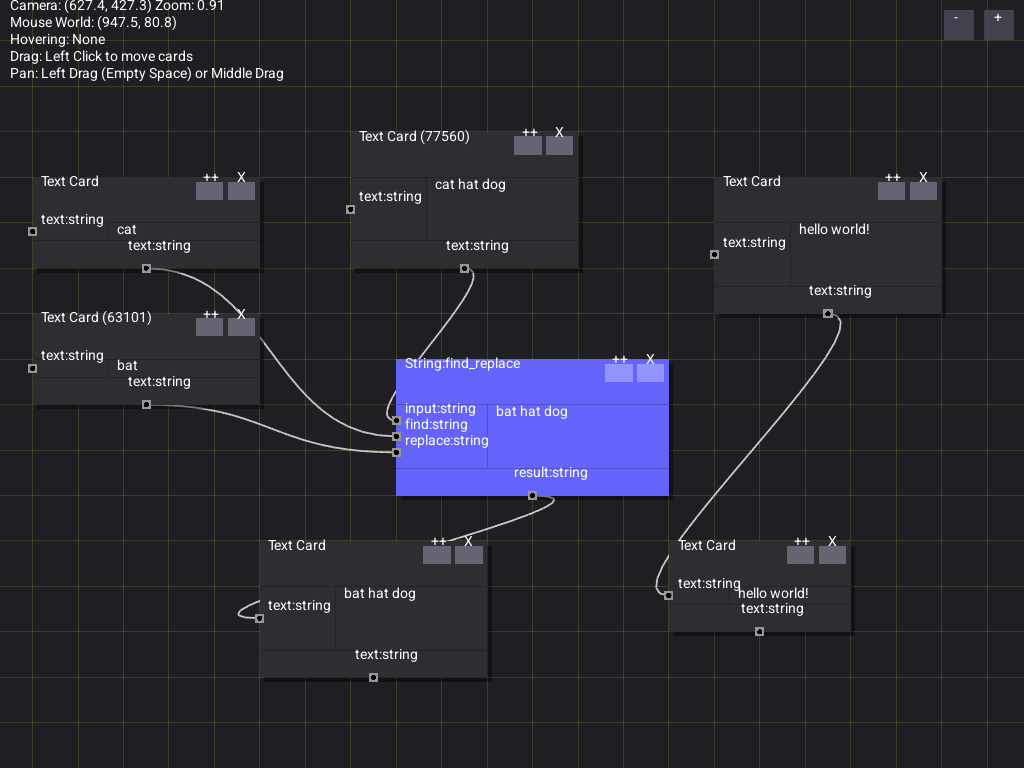
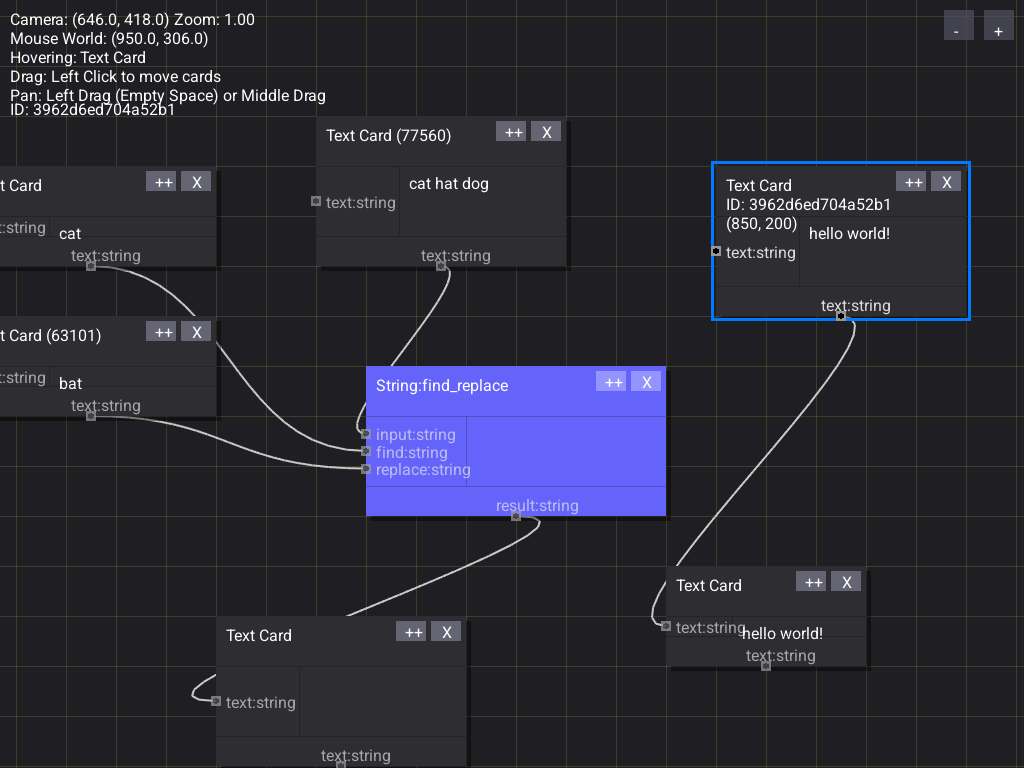
feat: Enhance card drawing with hover and selection effects, update font size and line height

diff --git a/card.go b/card.go
@@ -289,6 +289,12 @@ func (c *Card) drawPorts(screen *ebiten.Image, g *Game, sx, sy, sw, sh, headerHe
 	zoom := g.camera.Zoom
 	portSize := PortSize * zoom
 
+	// Determine if this card is hovered or selected
+	mx, my := ebiten.CursorPosition()
+	wx, wy := g.camera.ScreenToWorld(float64(mx), float64(my), cw, ch)
+	hovered := wx >= c.X && wx < c.X+c.Width && wy >= c.Y && wy < c.Y+c.Height
+	selected := (c == g.input.activeCard)
+
 	// Inputs (Left) - positioned on left edge
 	if len(c.Inputs) > 0 {
 		usableHeight := c.Height - headerHeight - footerHeight
@@ -300,6 +306,14 @@ func (c *Card) drawPorts(screen *ebiten.Image, g *Game, sx, sy, sw, sh, headerHe
 			// Determine port color
 			portColor := ColorPortBody
 			dotColor := ColorPortDot
+
+			// Reduce contrast for inactive/unhovered cards
+			if !selected && !hovered {
+				portColor = ColorPortBodyDim
+				dotColor = ColorPortDotDim
+			}
+
+			// Hovering a specific port overrides dimming
 			if g.input.hoveredPortCard == c && g.input.hoveredPortInfo != nil &&
 				g.input.hoveredPortInfo.IsInput && g.input.hoveredPortInfo.Name == port.Name {
 				portColor = ColorPortHover
@@ -315,7 +329,15 @@ func (c *Card) drawPorts(screen *ebiten.Image, g *Game, sx, sy, sw, sh, headerHe
 			}
 
 			label := fmt.Sprintf("%s:%s", port.Name, port.Type)
-			DrawTextLines(screen, g.FontFace, label, int(spx+portSize), int(spy-8*zoom), color.White)
+			// Choose label color: bright when hovered/selected/active, dim otherwise
+			labelColor := ColorPortLabelDim
+			if selected || hovered {
+				labelColor = ColorPortLabel
+			}
+			if portColor == ColorPortHover || portColor == ColorPortActive {
+				labelColor = color.RGBA{255, 255, 255, 255}
+			}
+			DrawTextLines(screen, g.FontFace, label, int(spx+portSize), int(spy-8*zoom), labelColor)
 		}
 	}
 
@@ -329,6 +351,13 @@ func (c *Card) drawPorts(screen *ebiten.Image, g *Game, sx, sy, sw, sh, headerHe
 			// Determine port color
 			portColor := ColorPortBody
 			dotColor := ColorPortDot
+
+			// Reduce contrast for inactive/unhovered cards
+			if !selected && !hovered {
+				portColor = ColorPortBodyDim
+				dotColor = ColorPortDotDim
+			}
+
 			if g.input.dragStartCard == c && g.input.dragStartPort == port.Name {
 				portColor = ColorPortActive
 				dotColor = ColorPortActive
@@ -343,7 +372,14 @@ func (c *Card) drawPorts(screen *ebiten.Image, g *Game, sx, sy, sw, sh, headerHe
 			}
 
 			label := fmt.Sprintf("%s:%s", port.Name, port.Type)
-			DrawTextLines(screen, g.FontFace, label, int(spx-20*zoom), int(spy-20*zoom), color.White)
+			labelColor := ColorPortLabelDim
+			if selected || hovered {
+				labelColor = ColorPortLabel
+			}
+			if portColor == ColorPortActive {
+				labelColor = color.RGBA{255, 255, 255, 255}
+			}
+			DrawTextLines(screen, g.FontFace, label, int(spx-20*zoom), int(spy-20*zoom), labelColor)
 		}
 	}
 }

diff --git a/config.go b/config.go
@@ -53,17 +53,22 @@ const (
 
 var (
 	// --- Colors ---
-	ColorBackground          = color.RGBA{30, 30, 35, 255}
-	ColorGrid                = color.RGBA{32, 32, 10, 10}
-	ColorGridBlocked         = color.RGBA{20, 20, 25, 255}
-	ColorOriginCross         = color.RGBA{255, 100, 100, 150}
-	ColorShadow              = color.RGBA{0, 0, 0, 100}
-	ColorCardDefault         = color.RGBA{45, 45, 50, 255}
-	ColorCardHover           = color.RGBA{0, 120, 255, 255}
-	ColorCardActive          = color.RGBA{50, 205, 50, 255}
-	ColorCardHot             = color.RGBA{255, 140, 0, 255}
-	ColorPortBody            = color.RGBA{150, 150, 150, 255}
-	ColorPortDot             = color.RGBA{0, 0, 0, 255}
+	ColorBackground  = color.RGBA{30, 30, 35, 255}
+	ColorGrid        = color.RGBA{32, 32, 10, 10}
+	ColorGridBlocked = color.RGBA{20, 20, 25, 255}
+	ColorOriginCross = color.RGBA{255, 100, 100, 150}
+	ColorShadow      = color.RGBA{0, 0, 0, 100}
+	ColorCardDefault = color.RGBA{45, 45, 50, 255}
+	ColorCardHover   = color.RGBA{0, 120, 255, 255}
+	ColorCardActive  = color.RGBA{50, 205, 50, 255}
+	ColorCardHot     = color.RGBA{255, 140, 0, 255}
+	ColorPortBody    = color.RGBA{150, 150, 150, 255}
+	ColorPortBodyDim = color.RGBA{110, 110, 110, 180}
+	ColorPortDot     = color.RGBA{0, 0, 0, 255}
+	// Port label colors
+	ColorPortLabel           = color.RGBA{220, 220, 220, 255}
+	ColorPortLabelDim        = color.RGBA{150, 150, 150, 160}
+	ColorPortDotDim          = color.RGBA{0, 0, 0, 120}
 	ColorDivider             = color.RGBA{0, 0, 0, 50}
 	ColorCornerHandle        = color.RGBA{255, 255, 255, 200}
 	ColorButtonBackground    = color.RGBA{60, 60, 70, 200}

diff --git a/font.go b/font.go
@@ -24,7 +24,7 @@ func LoadUIFont() font.Face {
 		log.Println("LoadUIFont: parse error, using basic font:", err)
 		return basicfont.Face7x13
 	}
-	face, err := opentype.NewFace(f, &opentype.FaceOptions{Size: 14, DPI: 72, Hinting: font.HintingFull})
+	face, err := opentype.NewFace(f, &opentype.FaceOptions{Size: 16, DPI: 72, Hinting: font.HintingFull})
 	if err != nil {
 		log.Println("LoadUIFont: new face error, using basic font:", err)
 		return basicfont.Face7x13
@@ -38,14 +38,20 @@ func DrawTextLines(screen *ebiten.Image, face font.Face, s string, x, y int, clr
 		face = basicfont.Face7x13
 	}
 	lines := splitLines(s)
-	// compute line height from metrics
+	// compute line height and baseline offset from metrics
 	metrics := face.Metrics()
-	lineHeight := int((metrics.Ascent + metrics.Descent) >> 6)
+	ascent := int(metrics.Ascent >> 6)
+	descent := int(metrics.Descent >> 6)
+	lineHeight := ascent + descent
 	if lineHeight <= 0 {
-		lineHeight = 14
+		lineHeight = 16
+		ascent = 12
 	}
+	// Treat provided y as the top of the first line. text.Draw expects baseline y,
+	// so shift by ascent.
+	baseY := y + ascent
 	for i, line := range lines {
-		text.Draw(screen, line, face, x, y+(i*lineHeight), clr)
+		text.Draw(screen, line, face, x, baseY+(i*lineHeight), clr)
 	}
 }
 
